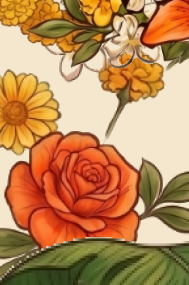
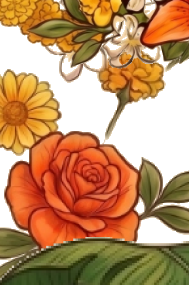
Brass shimmer "Tap to open"; transparent hero art; cache-busting + ?debug
- "Tap to open" is now a brass plaque matching the door hardware, with a
  soft light sweep every few seconds.
- Remove the baked-in old cream from the bouquets, banana leaves, centre
  motif and top garland (edge-connected colour key with de-fringed edges),
  so they sit cleanly on the lighter background.
- Version query strings on style.css, script.js and the re-cut images so
  phones don't keep serving cached copies after a deploy.
- ?debug shows the viewport/safe-area numbers the browser reports and
  stripes the hero area meant to sit behind Safari's bottom toolbar.

diff --git a/style.css b/style.css
@@ -33,6 +33,37 @@
   }
 }
 
+/* Build marker (shown by ?debug) — confirms the phone isn't using a cached stylesheet */
+:root { --build: "2026-09-28d"; }
+
+/* ?debug: stripe the part of the hero that should sit behind Safari's bottom bar */
+html.debug-bleed .welcome-content::after {
+  content: '';
+  position: absolute;
+  left: 0;
+  right: 0;
+  bottom: 0;
+  height: max(var(--hero-bleed), 6px);
+  background: repeating-linear-gradient(45deg, #FF00FF 0 12px, #FFE600 12px 24px);
+  z-index: 50;
+  pointer-events: none;
+}
+
+.debug-panel {
+  position: fixed;
+  top: calc(env(safe-area-inset-top, 0px) + 8px);
+  left: 8px;
+  z-index: 1000;
+  margin: 0;
+  padding: 8px 10px;
+  border-radius: 8px;
+  background: rgba(0, 0, 0, 0.78);
+  color: #7CFC9A;
+  font: 11px/1.45 ui-monospace, Menlo, monospace;
+  white-space: pre;
+  pointer-events: none;
+}
+
 /* ---- Reset ---- */
 *, *::before, *::after {
   margin: 0;
@@ -158,49 +189,71 @@ html.intro-lock body {
 
 /* -- "Tap to open" (a tap is required before video can play with sound) -- */
 .open-invite {
-  /* Floats over the threshold, at the same height as the hero's Scroll pill */
+  /* A brass plaque to match the door's handles, bells and studs. Floats over the
+     threshold, at the same height as the hero's Scroll pill. */
   position: absolute;
   left: 50%;
   bottom: calc(24px + var(--hero-bleed) + env(safe-area-inset-bottom, 0px));
   bottom: calc(24px + var(--hero-bleed) + max(env(safe-area-inset-bottom, 0px), 100lvh - 100svh));
   transform: translateX(-50%);
   z-index: 5;
-  padding: 11px 26px;
-  border: 1px solid rgba(55, 42, 34, 0.35);
+  overflow: hidden;
+  padding: 10px 26px;
+  border: 1px solid #8A6424;
   border-radius: 999px;
-  background: rgba(255, 250, 240, 0.72);
-  -webkit-backdrop-filter: blur(8px);
-  backdrop-filter: blur(8px);
+  background: linear-gradient(180deg, #E9CD86 0%, #CFA650 48%, #B8873A 100%);
+  box-shadow:
+    inset 0 1px 0 rgba(255, 244, 210, 0.75),
+    inset 0 -1px 0 rgba(90, 60, 20, 0.35),
+    0 2px 8px rgba(60, 35, 15, 0.28);
   font-family: var(--font-body);
   font-size: 15px;
   font-weight: 500;
-  letter-spacing: 0.4px;
-  color: var(--text-dark);
+  letter-spacing: 0.6px;
+  color: #4A2E14;
+  text-shadow: 0 1px 0 rgba(255, 238, 190, 0.6);
   cursor: pointer;
   opacity: 0;
   translate: 0 10px;
   pointer-events: none;
-  transition: opacity 500ms var(--ease-decelerate), translate 500ms var(--ease-decelerate), background-color 0.2s ease;
+  transition: opacity 500ms var(--ease-decelerate), translate 500ms var(--ease-decelerate), filter 0.2s ease;
+}
+
+/* Shimmer: a soft band of light sweeps across the brass every few seconds */
+.open-invite::after {
+  content: '';
+  position: absolute;
+  top: 0;
+  bottom: 0;
+  left: -60%;
+  width: 45%;
+  background: linear-gradient(100deg, transparent 0%, rgba(255, 250, 225, 0.75) 50%, transparent 100%);
+  transform: skewX(-18deg);
+  pointer-events: none;
 }
 
 .open-invite.is-ready {
   opacity: 1;
   translate: 0 0;
   pointer-events: auto;
-  animation: openPulse 2.4s ease-in-out 600ms infinite;
 }
 
-.open-invite:hover { background: rgba(255, 255, 255, 0.7); }
+.open-invite.is-ready::after {
+  animation: brassShimmer 3.2s ease-in-out 700ms infinite;
+}
+
+.open-invite:hover { filter: brightness(1.06); }
 
 .open-invite:focus-visible {
-  outline: 2px solid var(--text-dark);
+  outline: 2px solid #F7ECD7;
   outline-offset: 3px;
 }
 
-@keyframes openPulse {
-  0%, 100% { box-shadow: 0 0 0 0 rgba(55, 42, 34, 0.18); }
-  50%      { box-shadow: 0 0 0 8px rgba(55, 42, 34, 0); }
+@keyframes brassShimmer {
+  0%       { left: -60%; }
+  45%, 100% { left: 130%; }
 }
+
 
 /* -- Doors: stone arch + toran (fixed) with two leaves that swing open in 3D.
       The stage covers the column like the hero; layer positions are the door

diff --git a/script.js b/script.js
@@ -33,12 +33,12 @@
     'assets/door_frame.webp',
     'assets/door_left.webp',
     'assets/door_right.webp',
-    'assets/top_floral_garland.webp',
-    'assets/bouquet_corner_left.png',
-    'assets/bouquet_corner_right.png',
-    'assets/banana_leaf_left.png',
-    'assets/banana_leaf_right.png',
-    'assets/center_motif.png',
+    'assets/top_floral_garland.webp?v=2026-09-28d',
+    'assets/bouquet_corner_left.png?v=2026-09-28d',
+    'assets/bouquet_corner_right.png?v=2026-09-28d',
+    'assets/banana_leaf_left.png?v=2026-09-28d',
+    'assets/banana_leaf_right.png?v=2026-09-28d',
+    'assets/center_motif.png?v=2026-09-28d',
     'assets/ghat_illustration.webp'
   ];
 
@@ -489,9 +489,59 @@
   }
 
   /**
+   * Diagnostics for real devices: open the site with ?debug to see the
+   * viewport / safe-area numbers the browser reports, and to paint the
+   * hero's below-the-toolbar strip in stripes (it should show through
+   * Safari's translucent bottom bar).
+   */
+  function initDebug() {
+    if (!/[?&]debug\b/.test(location.search)) return;
+    document.documentElement.classList.add('debug-bleed');
+
+    var probe = document.createElement('div');
+    probe.style.cssText = 'position:absolute;visibility:hidden;pointer-events:none;top:0;left:0;width:1px;' +
+      'padding-top:env(safe-area-inset-top,0px);padding-bottom:env(safe-area-inset-bottom,0px)';
+    document.body.appendChild(probe);
+    function h(unit) {
+      var d = document.createElement('div');
+      d.style.cssText = 'position:absolute;visibility:hidden;width:1px;height:100' + unit;
+      document.body.appendChild(d);
+      var v = Math.round(d.getBoundingClientRect().height);
+      d.remove();
+      return v;
+    }
+
+    var panel = document.createElement('pre');
+    panel.className = 'debug-panel';
+    document.body.appendChild(panel);
+
+    function update() {
+      var cs = getComputedStyle(probe);
+      var root = getComputedStyle(document.documentElement);
+      var hero = document.querySelector('.welcome-content').getBoundingClientRect();
+      panel.textContent = [
+        'build ' + root.getPropertyValue('--build').trim(),
+        'inner ' + innerWidth + 'x' + innerHeight + '  client ' + document.documentElement.clientHeight,
+        'visualVP ' + (window.visualViewport ? Math.round(visualViewport.height) : '-') + '  screen ' + screen.height,
+        'vh ' + h('vh') + ' lvh ' + h('lvh') + ' svh ' + h('svh') + ' dvh ' + h('dvh'),
+        'safe top ' + cs.paddingTop + ' bottom ' + cs.paddingBottom,
+        'touch-callout ' + (CSS.supports('-webkit-touch-callout', 'none') ? 'yes' : 'no') +
+          '  bleed ' + root.getPropertyValue('--hero-bleed').trim(),
+        'hero ' + Math.round(hero.top) + '..' + Math.round(hero.bottom) + '  scrollY ' + Math.round(scrollY),
+        navigator.userAgent.replace(/^.*?\(([^)]*)\).*$/, '$1').slice(0, 60)
+      ].join('\n');
+    }
+    update();
+    window.addEventListener('resize', update);
+    window.addEventListener('scroll', update, { passive: true });
+    if (window.visualViewport) visualViewport.addEventListener('resize', update);
+  }
+
+  /**
    * Main initialization — runs after DOM is ready.
    */
   function init() {
+    initDebug();
     initArchReveal();
     initAutoAdvance();
     initScrollReveal();

diff --git a/index.html b/index.html
@@ -21,10 +21,10 @@
   <link rel="preload" as="image" href="assets/flower_lily.png">
   <link rel="preload" as="image" href="assets/flower_daisy.png">
   <link rel="preload" as="image" href="assets/flower_rose.png">
-  <link rel="preload" as="image" href="assets/top_floral_garland.webp">
+  <link rel="preload" as="image" href="assets/top_floral_garland.webp?v=2026-09-28d">
   <link rel="preload" as="image" href="assets/ghat_illustration.webp">
 
-  <link rel="stylesheet" href="style.css">
+  <link rel="stylesheet" href="style.css?v=2026-09-28d">
 </head>
 <body>
 
@@ -94,25 +94,25 @@
       <!-- Top decoration: individual absolute-positioned layers from Figma -->
       <div class="welcome-top-decoration" id="topDecoration">
         <div class="layer-item layer-top-floral-garland">
-          <img src="assets/top_floral_garland.webp" alt="">
+          <img src="assets/top_floral_garland.webp?v=2026-09-28d" alt="">
         </div>
         <div class="layer-item layer-bouquet-left">
-          <img src="assets/bouquet_corner_left.png" alt="">
+          <img src="assets/bouquet_corner_left.png?v=2026-09-28d" alt="">
         </div>
         <div class="layer-item layer-bouquet-right">
-          <img src="assets/bouquet_corner_right.png" alt="">
+          <img src="assets/bouquet_corner_right.png?v=2026-09-28d" alt="">
         </div>
         <div class="layer-item layer-banana-leaf-left">
-          <img src="assets/banana_leaf_left.png" alt="">
+          <img src="assets/banana_leaf_left.png?v=2026-09-28d" alt="">
         </div>
         <div class="layer-item layer-banana-leaf-right">
-          <img src="assets/banana_leaf_right.png" alt="">
+          <img src="assets/banana_leaf_right.png?v=2026-09-28d" alt="">
         </div>
       </div>
 
       <!-- Center floral motif -->
       <div class="center-motif" id="centerMotif">
-        <img src="assets/center_motif.png" alt="" class="motif-img">
+        <img src="assets/center_motif.png?v=2026-09-28d" alt="" class="motif-img">
       </div>
 
       <!-- Text area -->
@@ -217,6 +217,6 @@
   </section>
   </main>
 
-  <script src="script.js"></script>
+  <script src="script.js?v=2026-09-28d"></script>
 </body>
 </html>
